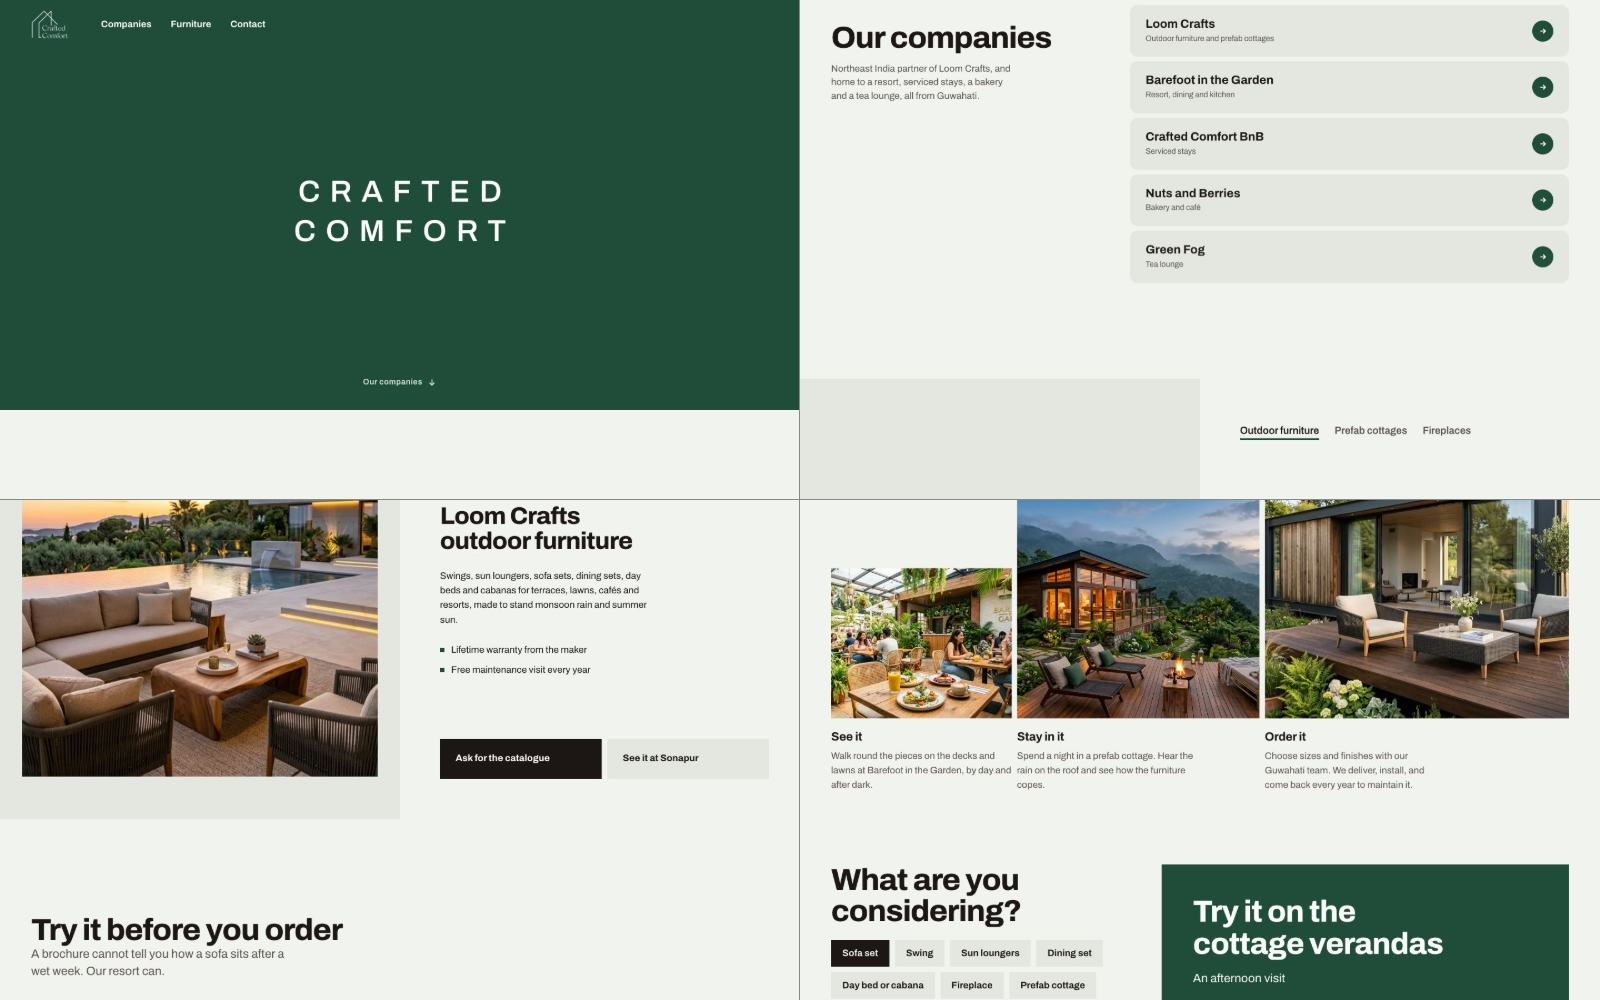
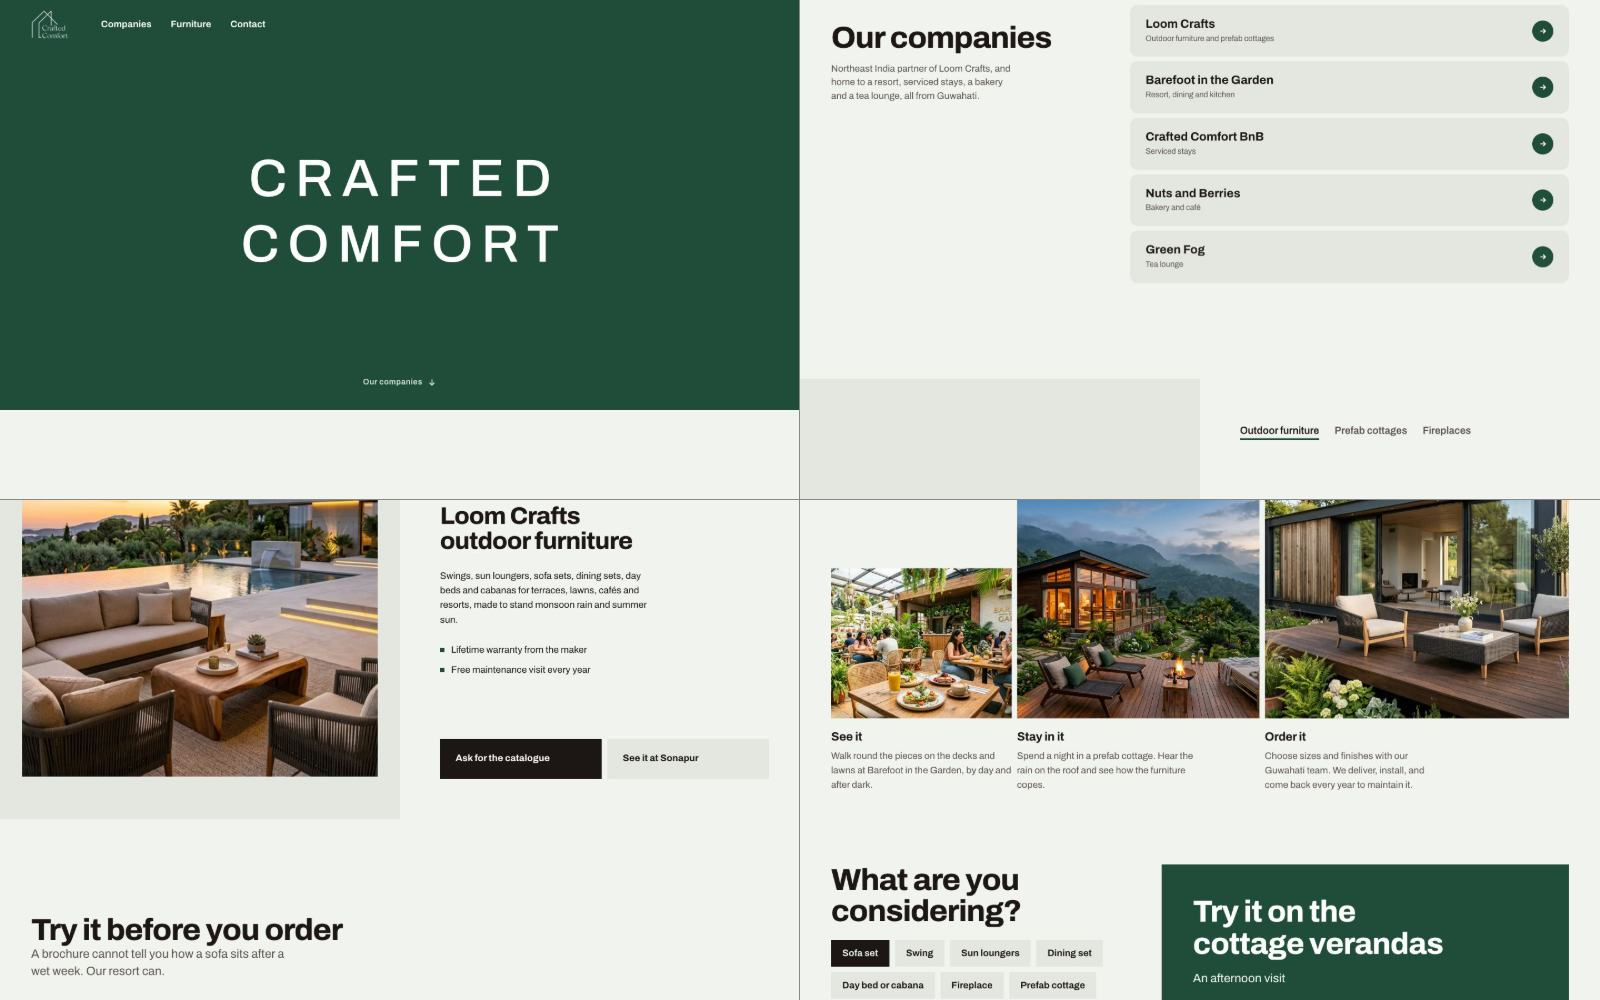
Masthead title: light spaced capitals at display size

Changed region(s): [[0.1562, 0.155, 0.3438, 0.279]]

diff --git a/css/site.css b/css/site.css
@@ -1653,12 +1653,12 @@ button {
 }
 
 .mast-title {
-  font-size: var(--t-heading);
-  font-weight: 560;
-  line-height: 1.15;
-  letter-spacing: 0.32em;
+  font-size: var(--t-display);
+  font-weight: 520;
+  line-height: 1.08;
+  letter-spacing: 0.16em;
   text-transform: uppercase;
-  margin-right: -0.32em;
+  margin-right: -0.16em;
 }
 
 .mast-line {
